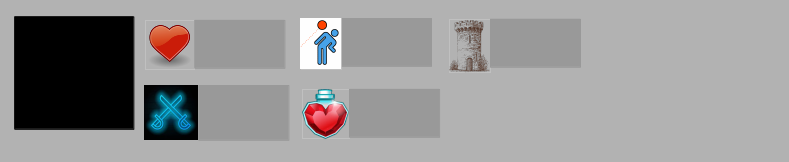
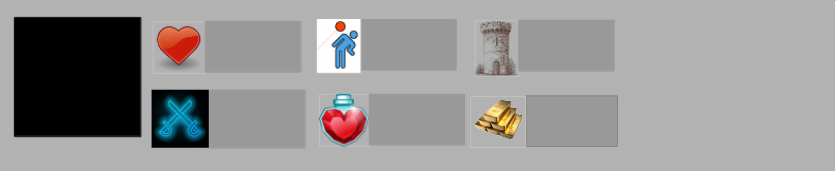
Ajout de l'argent das la barre de stats

diff --git a/gui/main.py b/gui/main.py
@@ -57,9 +57,11 @@ def efface_texte():
 	fenetre.blit(personnage.image, (20, 725))
 	ta_vie()
 	texte(f"{personnage.esquive}", (385, 746), 30, white)
-	texte(f"{tour}", (536, 746), 30, white)
-	texte(f"{personnage.attaque}", (224, 819), 30, white)
-	texte(f"{personnage.regeneration}", (378, 819), 30, white)
+	texte(f"{tour}", (550, 746), 30, white)
+	texte(f"{personnage.attaque}", (248, 819), 30, white)
+	texte(f"{personnage.regeneration}", (413, 819), 30, white)
+	texte(f"{personnage.argent}", (564, 819), 30, white)
+	
 
 def Choix_hero(position, guerrier, mage, archer):
 	x, y = position
@@ -245,6 +247,8 @@ def la_boutique():
 def ta_vie():
 	if personnage.vie > 0:
 		texte(f"{personnage.vie}", (230, 746), 30, white)
+		if personnage.vie == personnage.maxVie:
+			texte(f"{personnage.vie}", (230, 746), 30, green)
 		if personnage.vie <= 20:
 			texte(f"{personnage.vie}", (230, 746), 30, orange)
 		if personnage.vie <= 10:
@@ -263,7 +267,7 @@ def ta_le_coffre():
 	fenetre.blit(coffre_ouvert, (571, 207))
 	if dans_coffre == 0:
 		argent_gagne = randint(50, 100)
-		texte(f"{argent_gagne} euros", (600, 100), 30, blue)
+		texte(f"{argent_gagne} pièces d'or", (600, 100), 30, blue)
 		attaque_gagne = randint(2, 10)
 		texte(f"{attaque_gagne} d'attaque", (600, 200), 30, blue)
 		personnage.argent += argent_gagne
@@ -272,19 +276,19 @@ def ta_le_coffre():
 		boules_speciale_gagne = randint(1, 4)
 		texte(f"{boules_speciale_gagne} boules spéciales", (600, 100), 30, blue)
 		argent_gagne = randint(50, 100)
-		texte(f"{argent_gagne} euros", (600, 200), 30, blue)
+		texte(f"{argent_gagne} pièces d'or", (600, 200), 30, blue)
 		personnage.argent += argent_gagne
 		attack_speciale += boules_speciale_gagne
 	if dans_coffre == 2:
 		argent_gagne = randint(50, 100)
-		texte(f"{argent_gagne} euros", (600, 100), 30, blue)
+		texte(f"{argent_gagne} pièces d'or", (600, 100), 30, blue)
 		esquive_gagne = randint(10, 30)
-		texte(f"{esquive_gagne} d'esquive", (600, 100), 30, blue)
+		texte(f"{esquive_gagne} d'esquive", (600, 200), 30, blue)
 		personnage.argent += argent_gagne
 		personnage.esquive += esquive_gagne
 	if dans_coffre == 3:
 		argent_gagne = randint(50, 100)
-		texte(f"{argent_gagne} euros", (600, 100), 30, blue)
+		texte(f"{argent_gagne} pièces d'or", (600, 100), 30, blue)
 		vie_gagne = randint(10, 30)
 		texte(f"{vie_gagne} vies (t'enlève les unités pour combien de pomme d'or)", (600, 200), 30, blue)
 
@@ -292,14 +296,13 @@ def ta_le_coffre():
 		personnage.maxVie += vie_gagne
 	if dans_coffre == 4:
 		argent_gagne = randint(50, 100)
-		texte(f"{argent_gagne} euros", (600, 100), 30, blue)
+		texte(f"{argent_gagne} pièces d'or", (600, 100), 30, blue)
 		regeneration_gagner = randint(10, 20)
 		texte(f"{regeneration_gagner} de régeneration", (600, 200), 30, blue)
 		personnage.argent += argent_gagne
 		personnage.regeneration += regeneration_gagner
-
-
-
+	time.sleep(3.0)
+	efface_texte()
 
 #________________________________________________________________________________________________________
 
